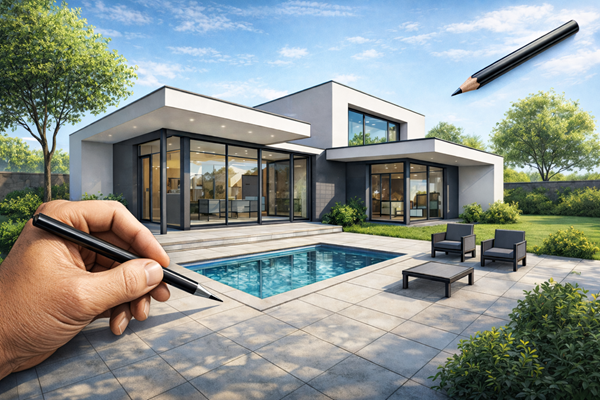
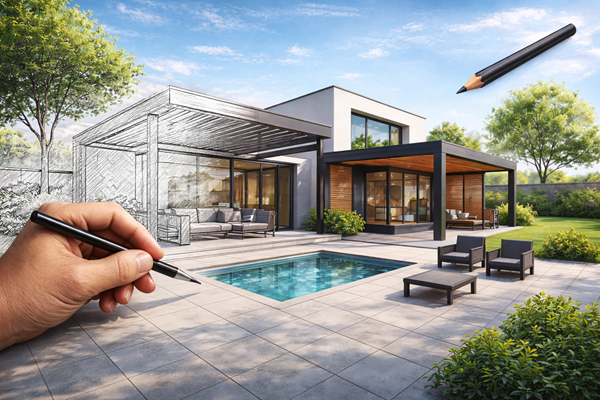
hot fix

diff --git a/src/componets/DesignTailorCard/DesignTailorCard.css b/src/componets/DesignTailorCard/DesignTailorCard.css
@@ -1,12 +1,13 @@
 
 .design-tailored-card {
-    margin-top: 50px;
+    margin-top: 80px;
     display: flex;
     width: 90%;
     margin-left: 5%;
     height: auto;
     overflow: hidden;
     background-color: #f5f5f5; /* Color de fondo opcional */
+    border-radius: 5px;
   }
   
   .design-tailored-card .banner-image {
@@ -15,7 +16,6 @@
     object-fit: cover;
     padding: 10px;
   }
-  
   .second-banner-info {
     width: 50%;
     padding: 40px;
